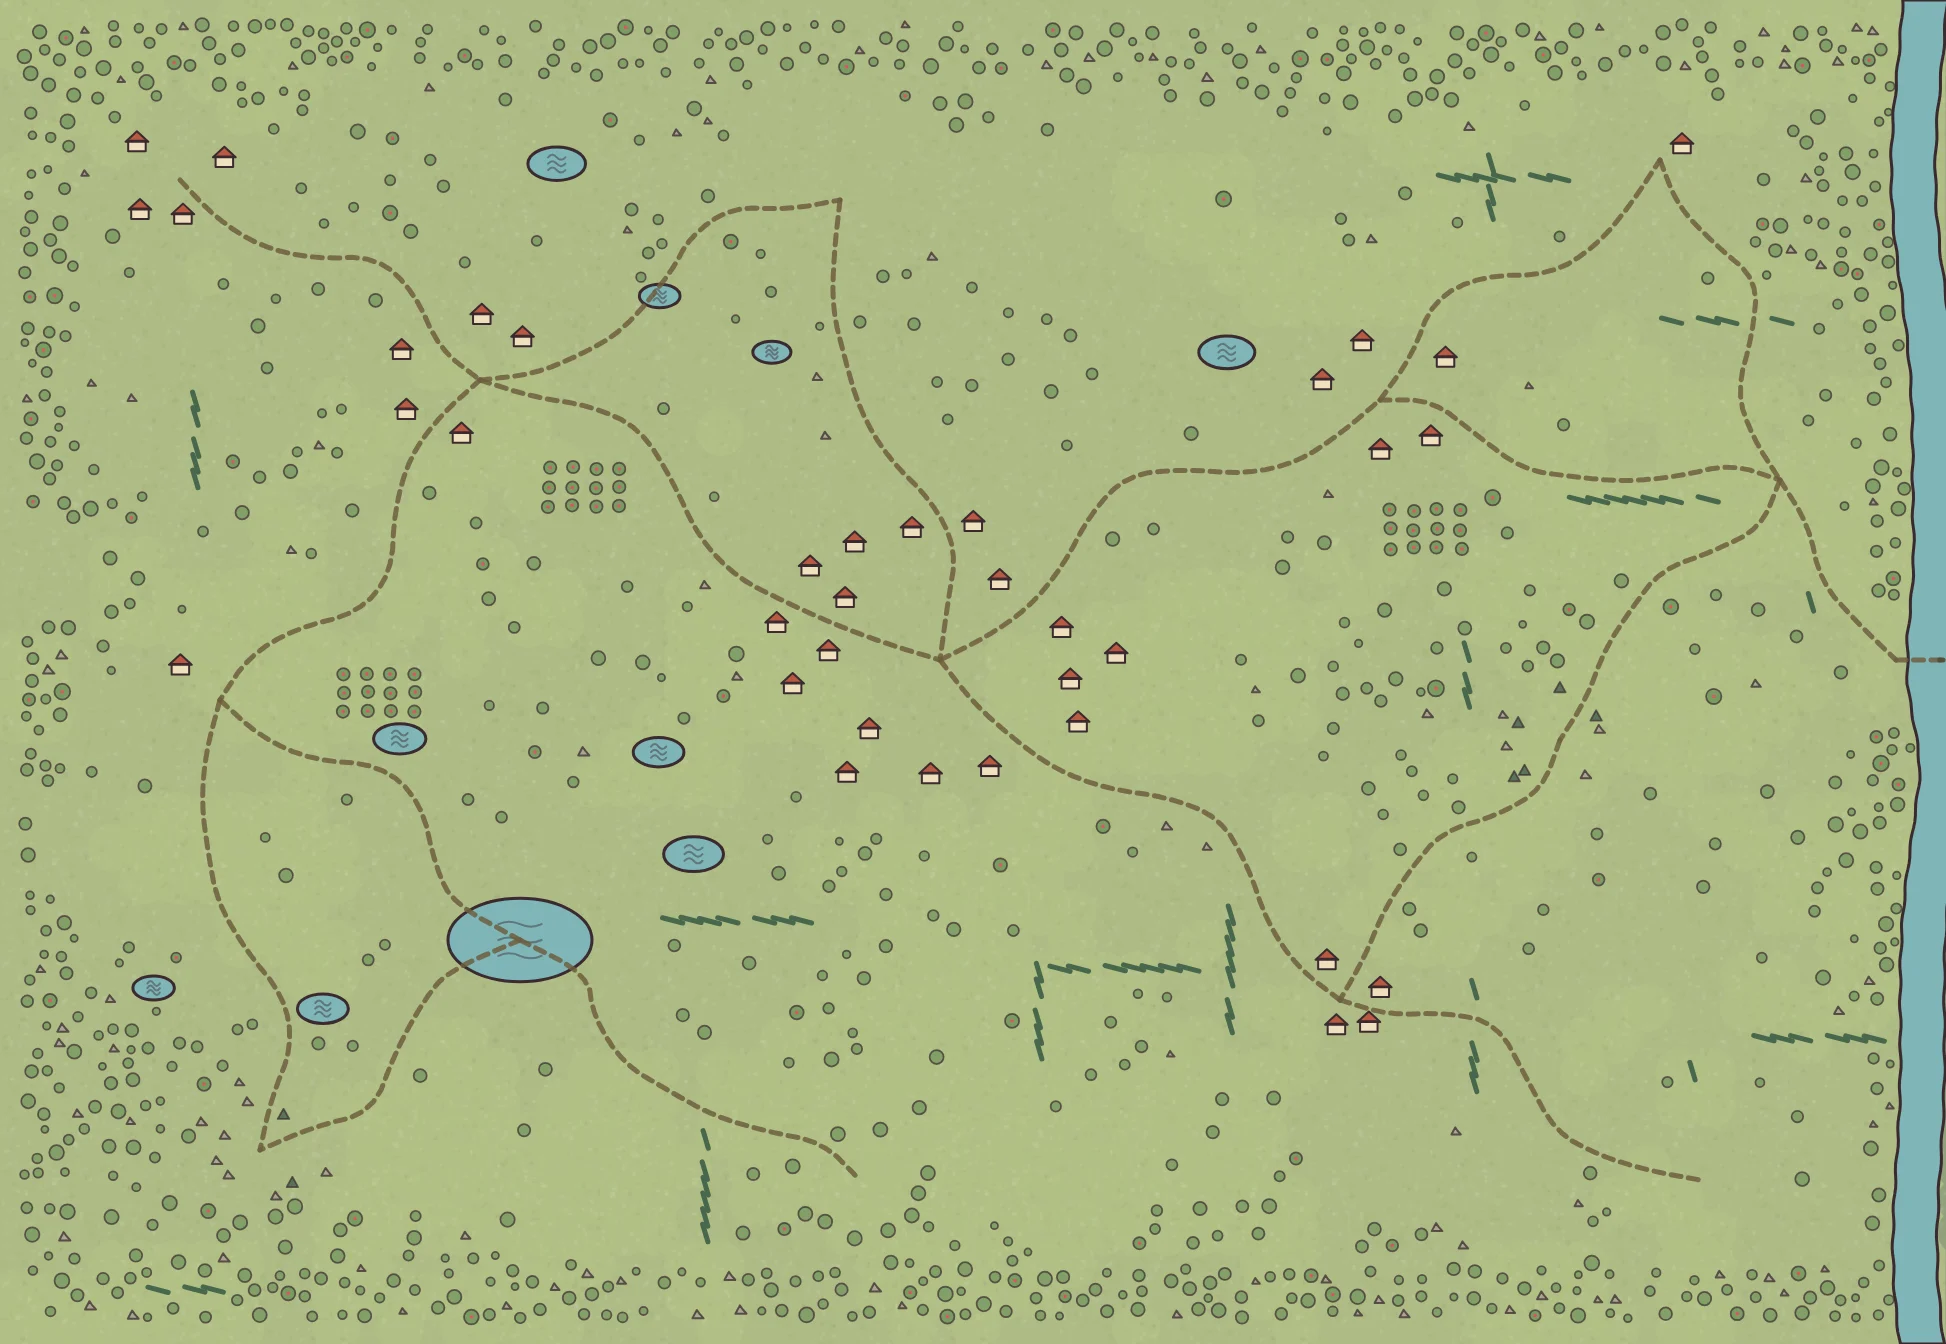
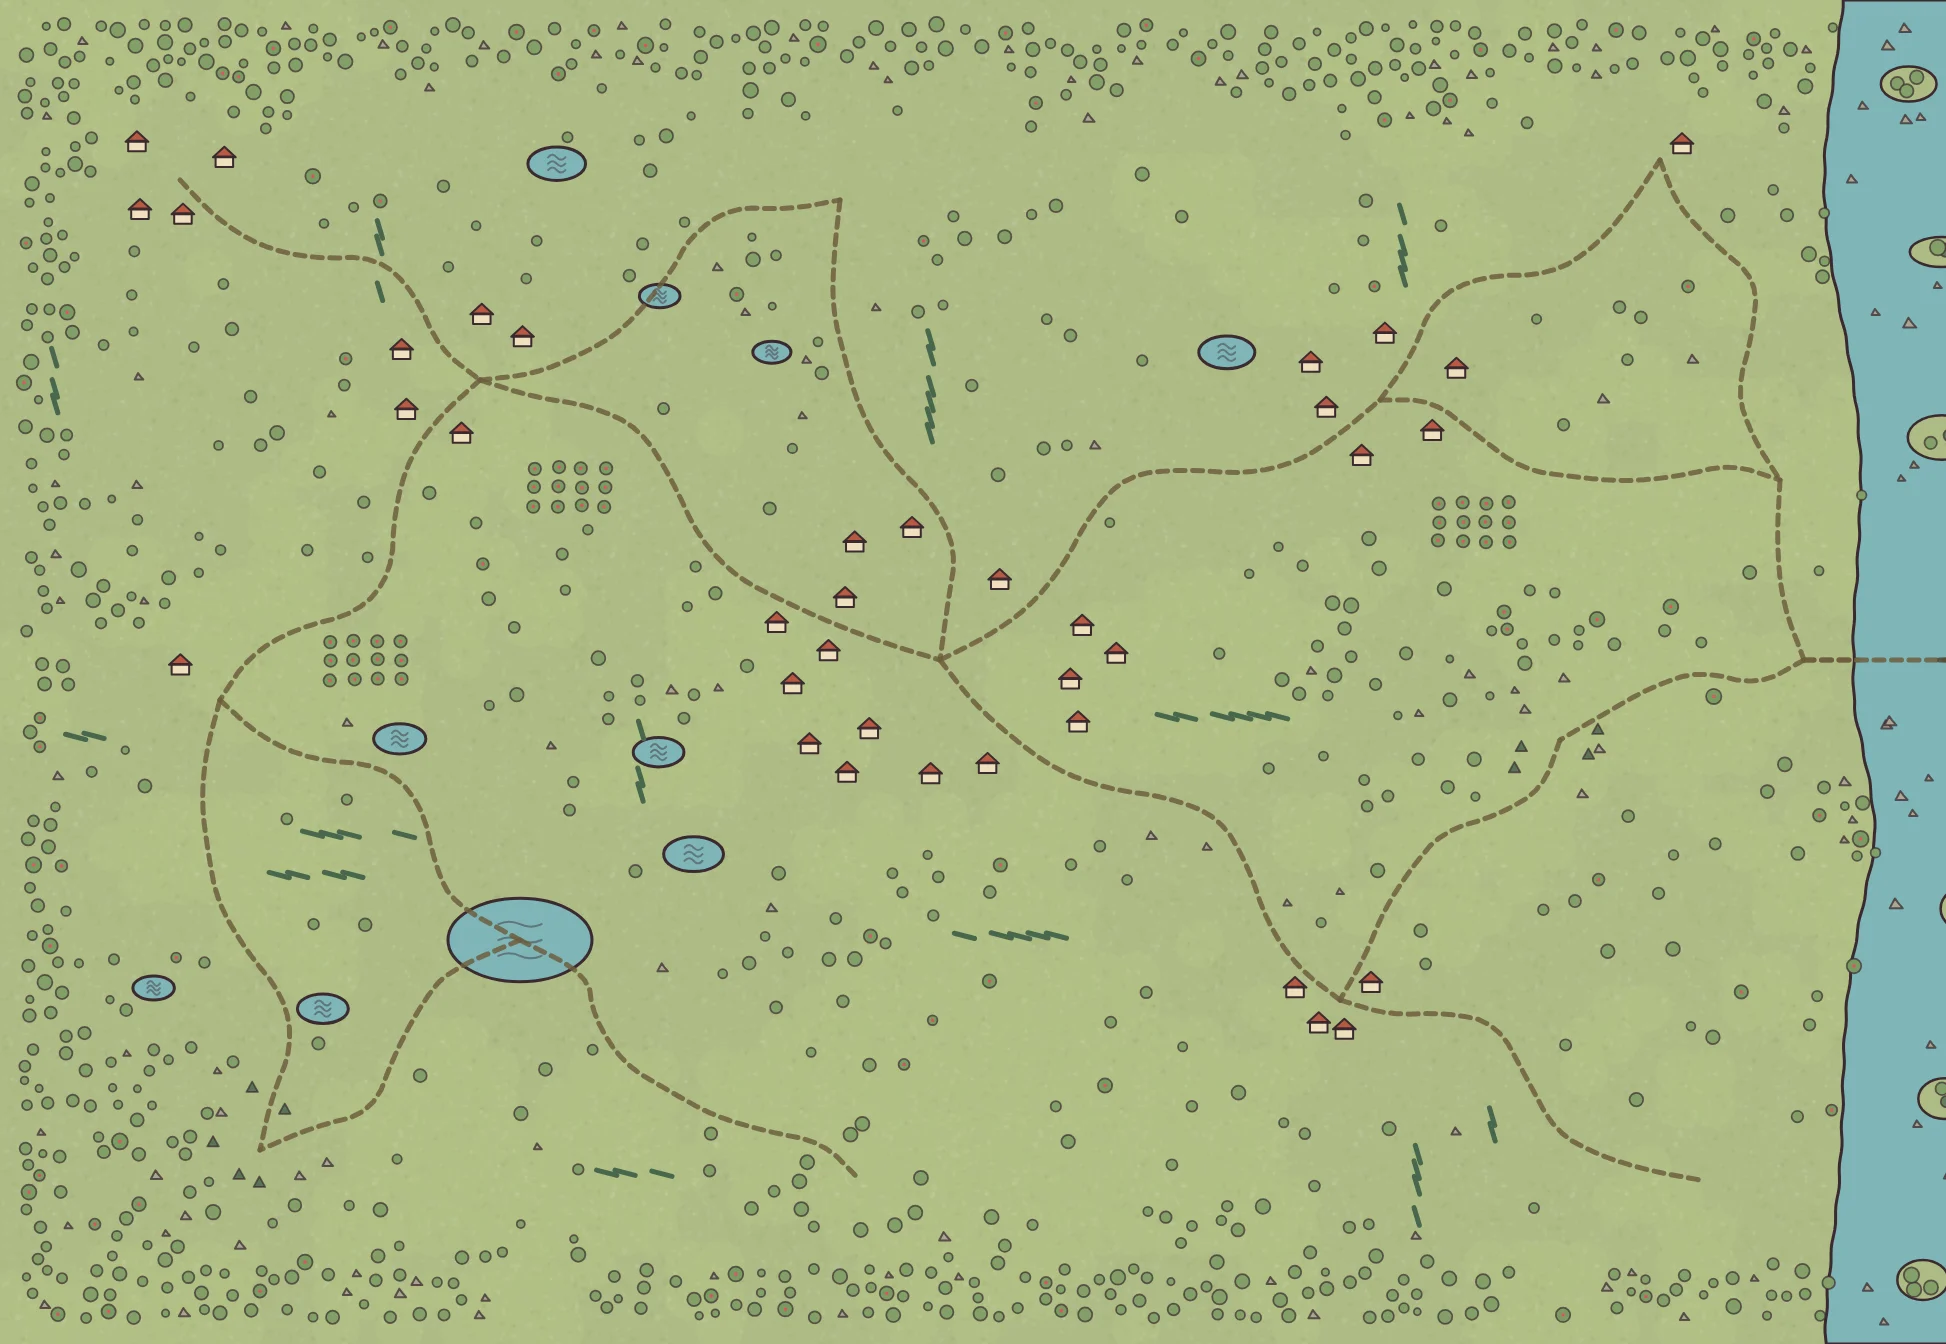
The wide Gloomwater on the maps and in the text, and griffon flights
- Re-baked maps: the river is now as wide as a mountain range, with its islands.
- World and Meadow text in English, German and Bosnian describe the long bridge and the broad river.
- A new feature card for griffon flights; achievements now 64 worth 1,210 points.

diff --git a/src/i18n/page.en.ts b/src/i18n/page.en.ts
@@ -3,7 +3,7 @@
 export const page = {
   "meta.description": "Starfall Grove is a pop-up paper storybook action RPG. Walk one vast valley of four lands, choose one of five heroes with a story of their own, and defeat the guardians and the Eclipse. Play in your browser, on Android and on iPhone and iPad.",
   "story.p2": "Then a star falls out of the sky, and the lights begin to go out. Master Orrin walks into the dark with his lantern and does not come back. Creatures stir in the tall grass, and a shadow older than the valley starts to wake.",
-  "world.text": "The valley is one continuous world, with no loading between lands, and every border is a journey of its own. Rebuild the bridge over the Gloomwater river to reach the Woods. Smash a path through the rockfall that buries Frostspine Pass, high in the snowy mountains, to climb to the Summit. Break open the caved-in mouth of the Cindermaw, a cave through a smoking volcano, to reach the Ember Wastes. Each land has its own light, weather, music, city and creatures found nowhere else.",
+  "world.text": "The valley is one continuous world, with no loading between lands, and every border is a journey of its own. Rebuild the long bridge across the Gloomwater, a river as wide as a mountain range, to reach the Woods. Smash a path through the rockfall that buries Frostspine Pass, high in the snowy mountains, to climb to the Summit. Break open the caved-in mouth of the Cindermaw, a cave through a smoking volcano, to reach the Ember Wastes. Each land has its own light, weather, music, city and creatures found nowhere else.",
   "story.p1": "Three lights keep the valley safe: the <b>Beacon</b> on the meadow hill, the <b>Bell</b> beneath the roots of the wood, and the <b>Star</b> above the summit. Nobody alive remembers why they were lit.",
   "heroes.text": "Every hero has their own level, bag, spells and main questline. You can drag them on the pedestal to turn them, tap an ability to see what it does, or try on a legendary set.",
   "story.p3": "Its name is <b>Umbra, the Eclipse</b>. It wears the shape of whatever you fear the most, so no two heroes meet the same guardians, and none of them walk the same road.",
@@ -14,7 +14,7 @@ export const page = {
   "faq.a4": "An up-to-date browser on a phone, tablet or computer, or the app from Google Play or the App Store. You can play with touch or with a keyboard.",
   "f.spells.p": "Every hero learns five abilities, from gravity wells to blizzards, and grows all the way to level 30. Each ability can be upgraded with up to five stars.",
   "world.woods": "A deep forest of giant oaks hung with moss, dark bogs full of lily pads, fairy rings that glow at night and the lanterns of <b>Lanternmarket</b>. Somewhere below, the Bell has gone silent. Shadewolves, webspinners and boglings hunt among the roots, and a wall of snowy peaks rises in the east.",
-  "world.meadow": "Rolling green country: wildflower meadows of lavender, poppies and buttercups, orchards heavy with fruit, hedgerows and beehives around the villages and <b>Goldenhearth</b>. The Beacon stands dark on its hill. Gloomlings, thornlings and bristleboars roam the grass, and the Gloomwater river cuts it off from the woods.",
+  "world.meadow": "Rolling green country: wildflower meadows of lavender, poppies and buttercups, orchards heavy with fruit, hedgerows and beehives around the villages and <b>Goldenhearth</b>. The Beacon stands dark on its hill. Gloomlings, thornlings and bristleboars roam the grass, and the broad Gloomwater, wooded islands standing in its current, cuts it off from the woods.",
   "world.ember": "An ash desert of volcanoes and lava lakes under a smoky red night: lava running down black slopes, obsidian spires, steaming fumaroles and old bones in the sand, ruled from <b>Brasshaven</b>. The cold Dawn Forge waits at its heart. Ember imps, ash scorpions and cinderhounds rule the sand.",
   "f.mounts.p": "Buy a pony, a stag, a frost wolf or a cinder drake from the stable master in any city, or win a boar or the starlit unicorn in battle. They're faster in the saddle and fun to show off.",
   "play.browser.p": "Play right now on any modern browser, on a phone, tablet or PC. You can also install it to your home screen like an app.",
@@ -30,7 +30,7 @@ export const page = {
   "faq.text": "Anything else? The <a href=\"support/\">support page</a> has more answers and a way to reach us.",
   "f.dice.p": "Villagers and innkeepers challenge you to Starfall Dice and the archery range between quests.",
   "f.secrets.p": "Cracked walls hide what a well-thrown bomb can open, and runestones tell the valley's lore.",
-  "f.ach.p": "Chapters, guardians, fallen stars, secrets and feats of combat, worth 1,140 points in six categories.",
+  "f.ach.p": "Chapters, guardians, fallen stars, secrets and feats of combat, worth 1,210 points in six categories.",
   "faq.a1": "No. There is no sign-up and no login. Your heroes are saved on your own device.",
   "f.films.p": "Each hero's adventure opens with its own animated film and an original score.",
   "hero.play": "Play <span class=\"long\">in your browser</span><span class=\"short\">now</span>",
@@ -86,7 +86,7 @@ export const page = {
   "badge.downloadOn": "Download on the",
   "cast.label": "Meet the heroes",
   "world.openMapOf": "Open the map of",
-  "f.ach.h": "60 achievements",
+  "f.ach.h": "64 achievements",
   "play.browser.h": "In your browser",
   "film.label": "Hero intro film",
   "light.forge": "The Dawn Forge",
@@ -132,6 +132,8 @@ export const page = {
   "f.sieges.p": "When the shadow strikes back, it comes for the houses: whole hordes pour out of the dark from every side and set the roofs alight. Drive them off before the town burns.",
   "f.depths.h": "The last light is not the end",
   "f.depths.p": "The old songs say the Dawn Forge was built over something, and lit so it would stay shut. Listen to the ground when the last guardian falls.",
+  "f.flight.h": "Griffon flights",
+  "f.flight.p": "Every city has a skymaster with a griffon. Climb into the saddle and fly high above the clouds, over the river and the mountains, to any city you have already reached on foot, in a few heartbeats.",
 };
 
 export type PageKey = keyof typeof page;

diff --git a/src/i18n/page.de.ts b/src/i18n/page.de.ts
@@ -52,14 +52,14 @@ export const page: Record<PageKey, string> = {
   'noscript.wren': '<b>Wren, Waldläuferin</b>: Langbogen, Tempo und Fenn, ihr treuer Wolf.',
   'world.eyebrow': 'Ein Tal, vier Länder',
   'world.title': 'Von der Blumenwiese bis in die Asche',
-  'world.text': 'Das Tal ist eine zusammenhängende Welt, ohne Ladezeiten zwischen den Ländern, und jede Grenze ist eine Reise für sich. Baue die Brücke über den Fluss Gloomwater wieder auf, um in den Wald zu gelangen. Zerschlage den Felssturz, der den Frostspine-Pass hoch in den verschneiten Bergen verschüttet, um zum Gipfel aufzusteigen. Brich den eingestürzten Eingang des Cindermaw auf, einer Höhle durch einen rauchenden Vulkan, um die Glutwüste zu erreichen. Jedes Land hat sein eigenes Licht, Wetter, Musik, eine eigene Stadt und Kreaturen, die es nirgends sonst gibt.',
+  'world.text': 'Das Tal ist eine zusammenhängende Welt, ohne Ladezeiten zwischen den Ländern, und jede Grenze ist eine Reise für sich. Baue die lange Brücke über den Gloomwater wieder auf, einen Fluss so breit wie ein Gebirge, um in den Wald zu gelangen. Zerschlage den Felssturz, der den Frostspine-Pass hoch in den verschneiten Bergen verschüttet, um zum Gipfel aufzusteigen. Brich den eingestürzten Eingang des Cindermaw auf, einer Höhle durch einen rauchenden Vulkan, um die Glutwüste zu erreichen. Jedes Land hat sein eigenes Licht, Wetter, Musik, eine eigene Stadt und Kreaturen, die es nirgends sonst gibt.',
   'world.openMap': 'Karte öffnen',
   'world.openMapOf': 'Karte öffnen:',
   'world.ch1': 'Kapitel I · Stufe 1–6',
   'world.ch2': 'Kapitel II · Stufe 7–12',
   'world.ch3': 'Kapitel III · Stufe 13–18',
   'world.ch4': 'Kapitel IV · Stufe 19–24',
-  'world.meadow': 'Sanftes grünes Land: Wildblumenwiesen voller Lavendel, Mohn und Butterblumen, Obstgärten voller Früchte, Hecken und Bienenkörbe rund um die Dörfer und <b>Goldenhearth</b>. Das Leuchtfeuer steht dunkel auf seinem Hügel. Düsterlinge, Dornlinge und Borstenkeiler streifen durchs Gras, und der Fluss Gloomwater trennt es vom Wald.',
+  'world.meadow': 'Sanftes grünes Land: Wildblumenwiesen voller Lavendel, Mohn und Butterblumen, Obstgärten voller Früchte, Hecken und Bienenkörbe rund um die Dörfer und <b>Goldenhearth</b>. Das Leuchtfeuer steht dunkel auf seinem Hügel. Düsterlinge, Dornlinge und Borstenkeiler streifen durchs Gras, und der breite Gloomwater, mit bewaldeten Inseln in seiner Strömung, trennt es vom Wald.',
   'world.woods': 'Ein tiefer Wald aus moosbehangenen Rieseneichen, dunkle Moore voller Seerosen, Feenringe, die nachts leuchten, und die Laternen von <b>Lanternmarket</b>. Irgendwo in der Tiefe ist die Glocke verstummt. Schattenwölfe, Netzspinner und Moorlinge jagen zwischen den Wurzeln, und im Osten erhebt sich eine Wand verschneiter Gipfel.',
   'world.summit': 'Bergland: Felsgrate, kleine verschneite Gipfel, zugefrorene Bergseen, Steinmänner an den Pfaden und die hohen Hallen von <b>Cloudcrest</b>, unterhalb des Kraters, in den der Hohle Stern stürzte. Leerenirrlichter, Frostgeister und Schneefänge spuken in den Höhen, und ein rauchender Vulkan versperrt den Weg nach Osten.',
   'world.ember': 'Eine Aschewüste aus Vulkanen und Lavaseen unter einem rauchig roten Nachthimmel: Lava, die schwarze Hänge hinabfließt, Obsidiantürme, dampfende Fumarolen und alte Knochen im Sand, regiert von <b>Brasshaven</b> aus. In ihrem Herzen wartet die kalte Morgenschmiede. Glutkobolde, Aschenskorpione und Aschehunde beherrschen den Sand.',
@@ -74,8 +74,8 @@ export const page: Record<PageKey, string> = {
   'f.loot.p': 'Neun Ausrüstungsplätze und fünf Seltenheitsstufen, von gewöhnlich bis legendär. Was dein Held trägt, siehst du an seiner Papierfigur.',
   'f.mounts.h': 'Reittiere und Spuren',
   'f.mounts.p': 'Kauf beim Stallmeister jeder Stadt ein Pony, einen Hirsch, einen Frostwolf oder einen Glutdrachen, oder erkämpfe dir einen Keiler oder das Sterneneinhorn. Im Sattel bist du schneller, und angeben macht auch Spaß.',
-  'f.ach.h': '60 Erfolge',
-  'f.ach.p': 'Kapitel, Wächter, gefallene Sterne, Geheimnisse und Heldentaten im Kampf, zusammen 1.140 Punkte in sechs Kategorien.',
+  'f.ach.h': '64 Erfolge',
+  'f.ach.p': 'Kapitel, Wächter, gefallene Sterne, Geheimnisse und Heldentaten im Kampf, zusammen 1.210 Punkte in sechs Kategorien.',
   'f.dice.h': 'Würfel und Bogenschießen',
   'f.dice.p': 'Dorfbewohner und Wirte fordern dich zwischen den Aufträgen zu Starfall Dice und auf dem Schießstand heraus.',
   'f.secrets.h': 'Geheimnisse in jedem Land',
@@ -133,4 +133,6 @@ export const page: Record<PageKey, string> = {
   'f.sieges.p': 'Wenn der Schatten zurückschlägt, kommt er für die Häuser: ganze Horden strömen von allen Seiten aus der Dunkelheit und stecken die Dächer in Brand. Vertreibe sie, bevor die Stadt brennt.',
   'f.depths.h': 'Das letzte Licht ist nicht das Ende',
   'f.depths.p': 'Die alten Lieder sagen, die Morgenschmiede sei über etwas gebaut worden, und man habe sie entzündet, damit es verschlossen bleibt. Horche auf den Boden, wenn der letzte Wächter fällt.',
+  'f.flight.h': 'Greifenflüge',
+  'f.flight.p': 'In jeder Stadt wartet jemand mit einem Greif auf dich. Steig in den Sattel und flieg hoch über den Wolken, über Fluss und Berge, in wenigen Herzschlägen zu jeder Stadt, die du schon zu Fuß erreicht hast.',
 };

diff --git a/src/i18n/page.bs.ts b/src/i18n/page.bs.ts
@@ -52,14 +52,14 @@ export const page: Record<PageKey, string> = {
   'noscript.wren': '<b>Wren, lovkinja</b>: dugi luk, brzina i Fenn, njen vjerni vuk.',
   'world.eyebrow': 'Jedna dolina, četiri zemlje',
   'world.title': 'Od livade do pepela',
-  'world.text': 'Dolina je jedan neprekidan svijet, bez učitavanja između zemalja, a svaka granica je putovanje za sebe. Ponovo izgradi most preko rijeke Gloomwater da stigneš do šume. Probij se kroz odron koji je zatrpao prijevoj Frostspine, visoko u snježnim planinama, da se popneš na vrh. Razbij zarušeni ulaz u Cindermaw, pećinu kroz vulkan koji se dimi, da stigneš do Žarke pustinje. Svaka zemlja ima svoju svjetlost, vrijeme, muziku, svoj grad i stvorenja kojih nigdje drugdje nema.',
+  'world.text': 'Dolina je jedan neprekidan svijet, bez učitavanja između zemalja, a svaka granica je putovanje za sebe. Ponovo izgradi dugi most preko Gloomwatera, rijeke široke kao planinski lanac, da stigneš do šume. Probij se kroz odron koji je zatrpao prijevoj Frostspine, visoko u snježnim planinama, da se popneš na vrh. Razbij zarušeni ulaz u Cindermaw, pećinu kroz vulkan koji se dimi, da stigneš do Žarke pustinje. Svaka zemlja ima svoju svjetlost, vrijeme, muziku, svoj grad i stvorenja kojih nigdje drugdje nema.',
   'world.openMap': 'Otvori mapu',
   'world.openMapOf': 'Otvori mapu:',
   'world.ch1': 'Poglavlje I · Nivo 1–6',
   'world.ch2': 'Poglavlje II · Nivo 7–12',
   'world.ch3': 'Poglavlje III · Nivo 13–18',
   'world.ch4': 'Poglavlje IV · Nivo 19–24',
-  'world.meadow': 'Blago zeleno brdovito područje: livade divljeg cvijeća pune lavande, maka i ljutića, voćnjaci puni plodova, živice i košnice oko sela i <b>Goldenhearth</b>a. Svjetionik stoji ugašen na svom brdu. Travom lutaju sjenčići, trnčići i čekinjasti veprovi, a rijeka Gloomwater dijeli je od šume.',
+  'world.meadow': 'Blago zeleno brdovito područje: livade divljeg cvijeća pune lavande, maka i ljutića, voćnjaci puni plodova, živice i košnice oko sela i <b>Goldenhearth</b>a. Svjetionik stoji ugašen na svom brdu. Travom lutaju sjenčići, trnčići i čekinjasti veprovi, a široka rijeka Gloomwater, sa šumovitim otocima u matici, dijeli je od šume.',
   'world.woods': 'Duboka šuma golemih hrastova obraslih mahovinom, tamne močvare pune lopoča, vilinski krugovi koji noću svijetle i fenjeri <b>Lanternmarket</b>a. Negdje u dubini, Zvono je utihnulo. Među korijenjem love sjenoviti vukovi, paukovi pletači i močvarci, a na istoku se diže zid snježnih vrhova.',
   'world.summit': 'Planinski kraj: kameni grebeni, mali snježni vrhovi, zaleđena jezera, kamene gomile uz staze i visoke dvorane <b>Cloudcresta</b>, ispod kratera u koji je pala Šuplja zvijezda. Na visinama lutaju svjetlaci praznine, ledeni duhovi i snježnozupci, a vulkan koji se dimi zatvara put na istok.',
   'world.ember': 'Pustinja pepela s vulkanima i jezerima lave pod dimljivo crvenom noći: lava koja teče niz crne padine, kule od opsidijana, fumarole koje se puše i stare kosti u pijesku, a vlada se iz <b>Brasshaven</b>a. U njenom srcu čeka hladna Kovačnica zore. Pijeskom vladaju žarki vragolani, pepeljasti škorpioni i pepeljasti psi.',
@@ -74,8 +74,8 @@ export const page: Record<PageKey, string> = {
   'f.loot.p': 'Devet mjesta za opremu i pet stepena rijetkosti, od obične do legendarne. Sve što junak nosi vidi se na njegovoj papirnoj figuri.',
   'f.mounts.h': 'Jahaće životinje i tragovi',
   'f.mounts.p': 'Kupi ponija, jelena, ledenog vuka ili žarkog zmaja kod konjušara u bilo kojem gradu, ili osvoji vepra i zvjezdanog jednoroga u borbi. U sedlu si brži, a i lijepo ih je pokazati.',
-  'f.ach.h': '60 dostignuća',
-  'f.ach.p': 'Poglavlja, čuvari, pale zvijezde, tajne i podvizi u borbi, ukupno 1.140 bodova u šest kategorija.',
+  'f.ach.h': '64 dostignuća',
+  'f.ach.p': 'Poglavlja, čuvari, pale zvijezde, tajne i podvizi u borbi, ukupno 1.210 bodova u šest kategorija.',
   'f.dice.h': 'Kocke i streličarstvo',
   'f.dice.p': 'Seljani i krčmari te između zadataka izazivaju na Starfall Dice i na streljanu.',
   'f.secrets.h': 'Tajne u svakoj zemlji',
@@ -133,4 +133,6 @@ export const page: Record<PageKey, string> = {
   'f.sieges.p': 'Kad sjena uzvrati udarac, dolazi po kuće: čitave horde nadiru iz mraka sa svih strana i pale krovove. Otjeraj ih prije nego što grad izgori.',
   'f.depths.h': 'Posljednja svjetlost nije kraj',
   'f.depths.p': 'Stare pjesme kažu da je Kovačnica zore sagrađena iznad nečega i upaljena da to ostane zatvoreno. Osluhni tlo kad padne posljednji čuvar.',
+  'f.flight.h': 'Letovi na grifonu',
+  'f.flight.p': 'U svakom gradu čeka gospodar neba s grifonom. Popni se u sedlo i leti visoko iznad oblaka, preko rijeke i planina, za nekoliko otkucaja srca do bilo kojeg grada do kojeg si već stigao pješice.',
 };

diff --git a/index.html b/index.html
@@ -211,6 +211,7 @@
           <article class="feature reveal" style="--spell:#9fe4ff"><b aria-hidden="true">⚄&#xFE0E;</b><h3>%t.f.dice.h%</h3><p>%t.f.dice.p%</p></article>
           <article class="feature reveal" style="--spell:#fff1b8"><b aria-hidden="true">✶</b><h3>%t.f.starfall.h%</h3><p>%t.f.starfall.p%</p></article>
           <article class="feature reveal" style="--spell:#ff9a6b"><b aria-hidden="true">⚑&#xFE0E;</b><h3>%t.f.sieges.h%</h3><p>%t.f.sieges.p%</p></article>
+          <article class="feature reveal" style="--spell:#9fd8ff"><b aria-hidden="true">✈&#xFE0E;</b><h3>%t.f.flight.h%</h3><p>%t.f.flight.p%</p></article>
           <article class="feature reveal" style="--spell:#ffb05c"><b aria-hidden="true">✺</b><h3>%t.f.secrets.h%</h3><p>%t.f.secrets.p%</p></article>
           <article class="feature reveal" style="--spell:#b39cff"><b aria-hidden="true">☽</b><h3>%t.f.depths.h%</h3><p>%t.f.depths.p%</p></article>
           <article class="feature reveal" style="--spell:#e0c8ff"><b aria-hidden="true">▶</b><h3>%t.f.films.h%</h3><p>%t.f.films.p%</p></article>
